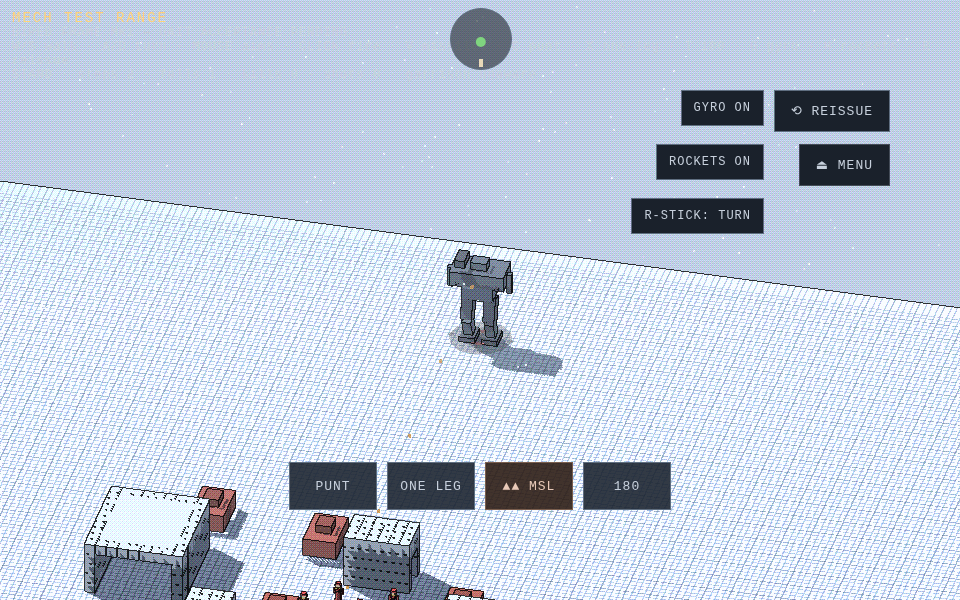
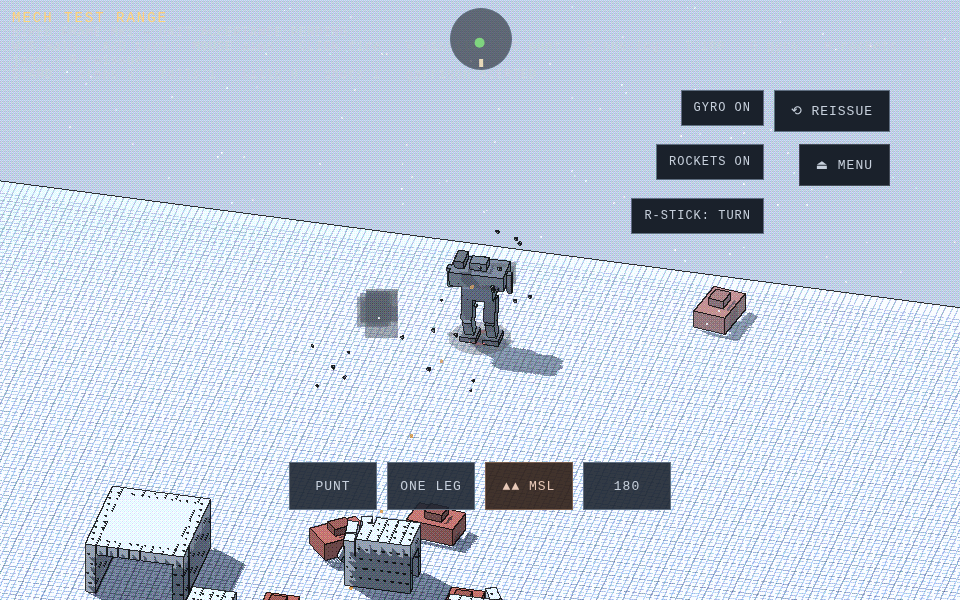
Command-frame aim anchor, recovery-gentle waist, desktop pivot + click-fire
- touch aim rides the COMMAND frame (measured-yaw anchoring fed hull
  wobble through the 1800kg waist at frame rate — the turn->aim->fire
  audit fall)
- recovery slews the waist at 0.3 rad/s in EVERY phase (the SS-only
  freeze left DS recovery windows exposed to full-rate torso swings)
- desktop held A/D arms the live pivot + release-cancels (keyboard
  turning had no pivot path — ground at 2 deg/s)
- desktop mousedown fires immediately (quick clicks never fired)
- TESTING TRAP found and recorded: five lingering vite preview servers
  (one from Jul 30) were serving STALE builds to every browser test —
  kill-by-port before serving; several 'fix had no effect' results in
  this campaign's log were stale-served. True-build browser numbers:
  turn ensemble 4/6 under max-stress holds; desktop audit 11/13 with
  X/T fails being probe sequencing; ONE residual phone fall mode
  (turn-from-march under frame jitter) poisons downstream button
  checks when it fires.

Full mech gate: ALL HARD PASS.

Changed region(s): [[0.0, 0.3, 1.0, 1.0]]

diff --git a/src/game/MechRange.jsx b/src/game/MechRange.jsx
@@ -194,6 +194,12 @@ export default function MechRange({ onExit }) {
       }
       if (S.keys.KeyA) S.yawT += 0.7 * dt;
       if (S.keys.KeyD) S.yawT -= 0.7 * dt;
+      // desktop held-turn pivots too (advisor): keyboard turning was still
+      // grinding at machine rate (2 deg/s) with no pivot path
+      S.keyTurnT = (S.keys.KeyA || S.keys.KeyD) ? (S.keyTurnT || 0) + dt : 0;
+      if (S.keyTurnT > 0.6 && mech.state.mode === "WALK" && !mech.state.aboutFace) { mechPivot(world, mech); S.keyTurnT = 0; }
+      if (!S.keys.KeyA && !S.keys.KeyD && S.keyTurnPrev && mech.state.afLive && mech.state.aboutFace) { mech.state.aboutFace = null; mech.state.headingT = mech.state.heading; S.yawT = mech.state.heading; mech.state.recoverT = Math.max(mech.state.recoverT || 0, 0.5); }
+      S.keyTurnPrev = S.keys.KeyA || S.keys.KeyD;
       // RIGHT stick = TURN (design 2026-08-01: cannon controls independent
       // of turning). Horizontal deflection is a turn-RATE command feeding
       // the same steering-locked heading target as A/D — the stick cannot
@@ -235,7 +241,11 @@ export default function MechRange({ onExit }) {
       // reticle with it; the arrows trim on top. Desktop keeps mouse aim.
       if (isTouch) {
         if (S.aimHeld) S.aimOff = Math.max(-0.85, Math.min(0.85, S.aimOff + S.aimHeld * 0.9 * dt));
-        mech.aimYaw = yawNow + S.aimOff;
+        // aim rides the COMMAND frame, not measured yaw (advisor): the
+        // measured anchor fed hull wobble through the 1800kg waist at
+        // frame rate — post-turn recoveries jittered the torso into
+        // topples (audit falls in the turn->aim->fire sequence, twice)
+        mech.aimYaw = mech.state.heading + S.aimOff;
       } else mech.aimYaw = S.aimYaw;
       mech.aimRange = S.aimRange;
       // chassis-follow ONLY while moving: turning works well inside the

diff --git a/src/engine/mech.js b/src/engine/mech.js
@@ -2158,7 +2158,11 @@ function controller(world, mech) {
     const inSSw = st.mode === "WALK" && st.swing != null;
     // and FROZEN when single support is already strained — the return swing
     // finishing off a stressed stance was the last rear-aim fall
-    const wRate = (inSSw ? (hull.R[4] < 0.97 ? 0 : 0.6) : 1.1) * dt;
+    // recovery slews the waist GENTLY in every phase (advisor): swinging
+    // the 1800kg torso at full rate into a recovering frame is the
+    // historic aiming-fall combination — the SS-only freeze left DS
+    // recovery windows exposed (audit: turn -> aim -> fall, twice)
+    const wRate = (st.recoverT > 0 ? 0.3 : inSSw ? (hull.R[4] < 0.97 ? 0 : 0.6) : 1.1) * dt;
     // (advisor NEGATIVE result, recorded: a phase-locked torso reaction
     // wheel — waist winding against the turn each SS — moved the turn
     // rate NOT AT ALL at certified waist slew (~2400 N*m*s per stroke
